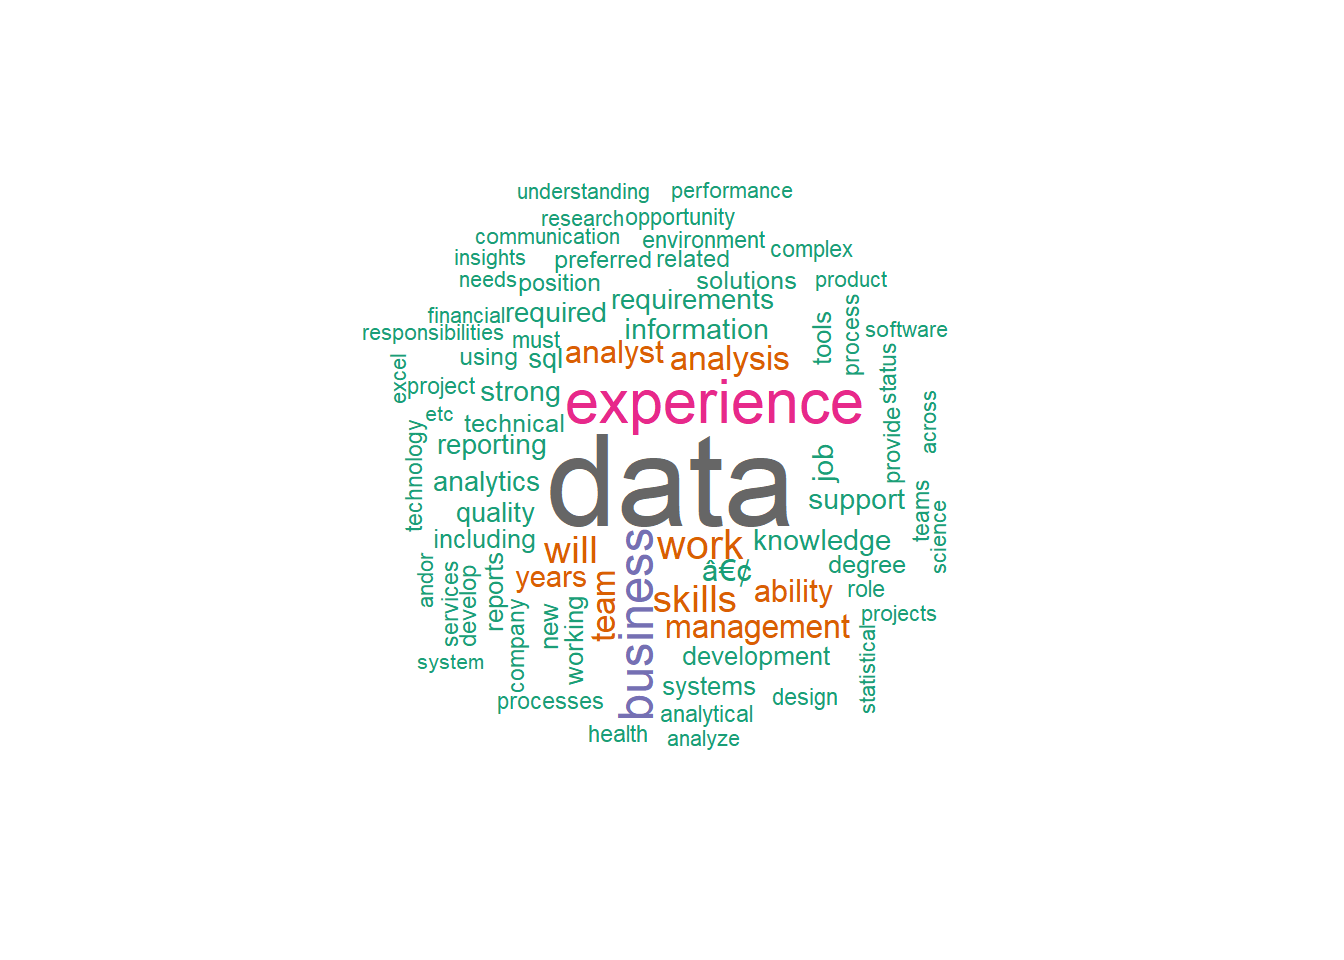
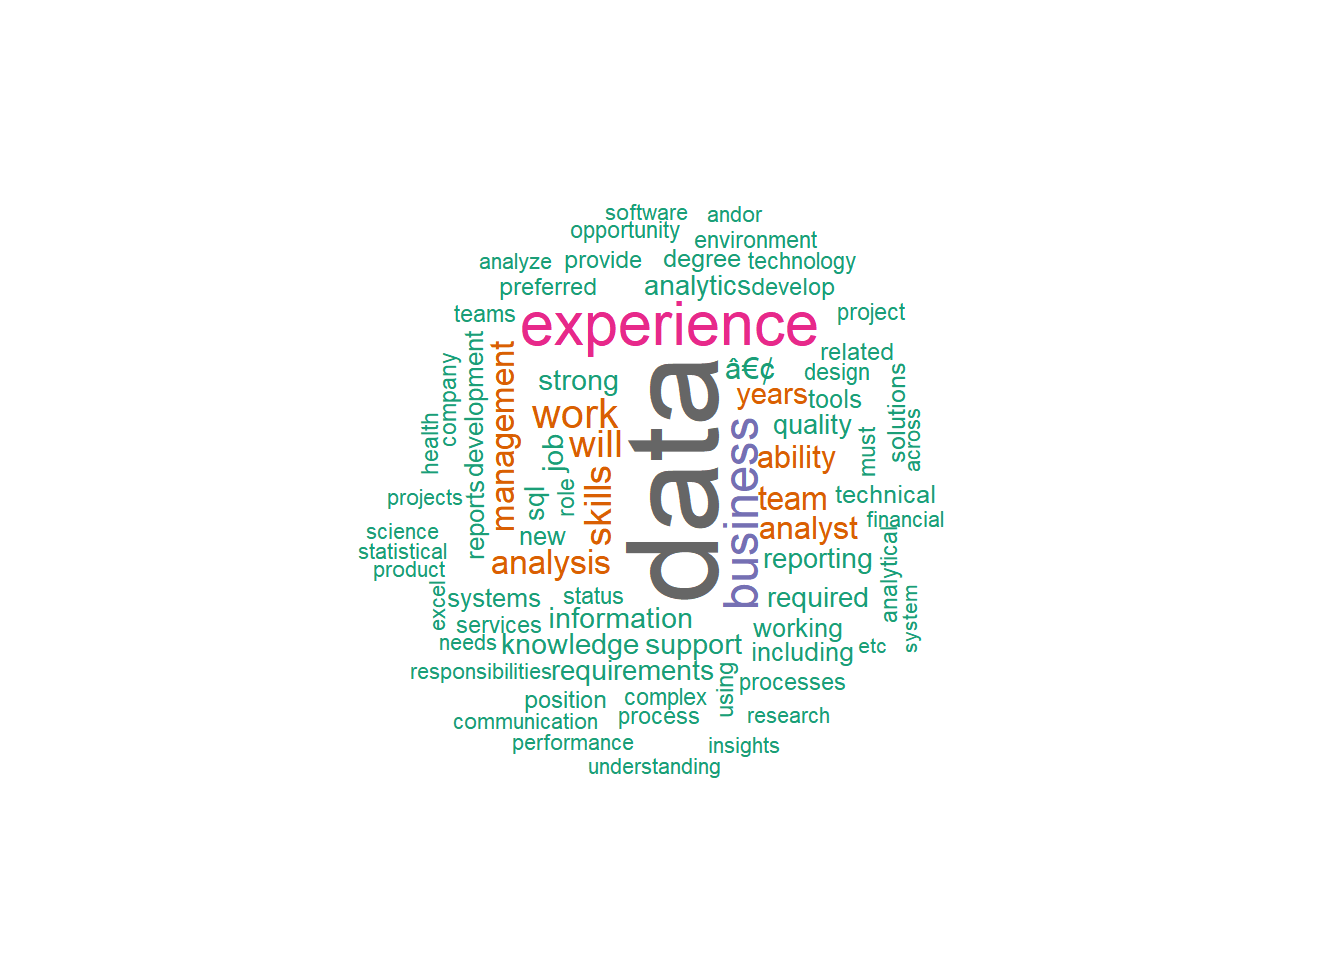
rotate plots

Changed region(s): [[0.25, 0.1875, 0.7188, 0.8125]]

diff --git a/glassdoor_analysis.html b/glassdoor_analysis.html
@@ -836,8 +836,8 @@ Colleges
 <p><img src="glassdoor_analysis_files/figure-html/unnamed-chunk-7-1.png" width="672" /></p>
 <p> </p>
 </div>
-<div id="what-do-data-anlysts-get-paid-in-different-industries" class="section level3">
-<h3><strong>4. What do data anlysts get paid in different industries?</strong></h3>
+<div id="what-do-data-analysts-get-paid-in-different-industries" class="section level3">
+<h3><strong>4. What do data analysts get paid in different industries?</strong></h3>
 <p>Let’s see how much data analysts get paid on average based on what industry they work in.</p>
 I’ll use the top 20 industries by amount of jobs postings on Glassdoor to determine this.
 <table class=" lightable-classic" style="font-family: Cambria; width: auto !important; margin-left: auto; margin-right: auto;">
@@ -1150,6 +1150,7 @@ Internet
 </tbody>
 </table>
 <p><img src="glassdoor_analysis_files/figure-html/unnamed-chunk-9-1.png" width="672" /></p>
+<p> </p>
 <p>Now. let’s see how much the industries with the most amount of jobs posted pay data analysts. <img src="glassdoor_analysis_files/figure-html/unnamed-chunk-10-1.png" width="672" /></p>
 <p> </p>
 </div>
